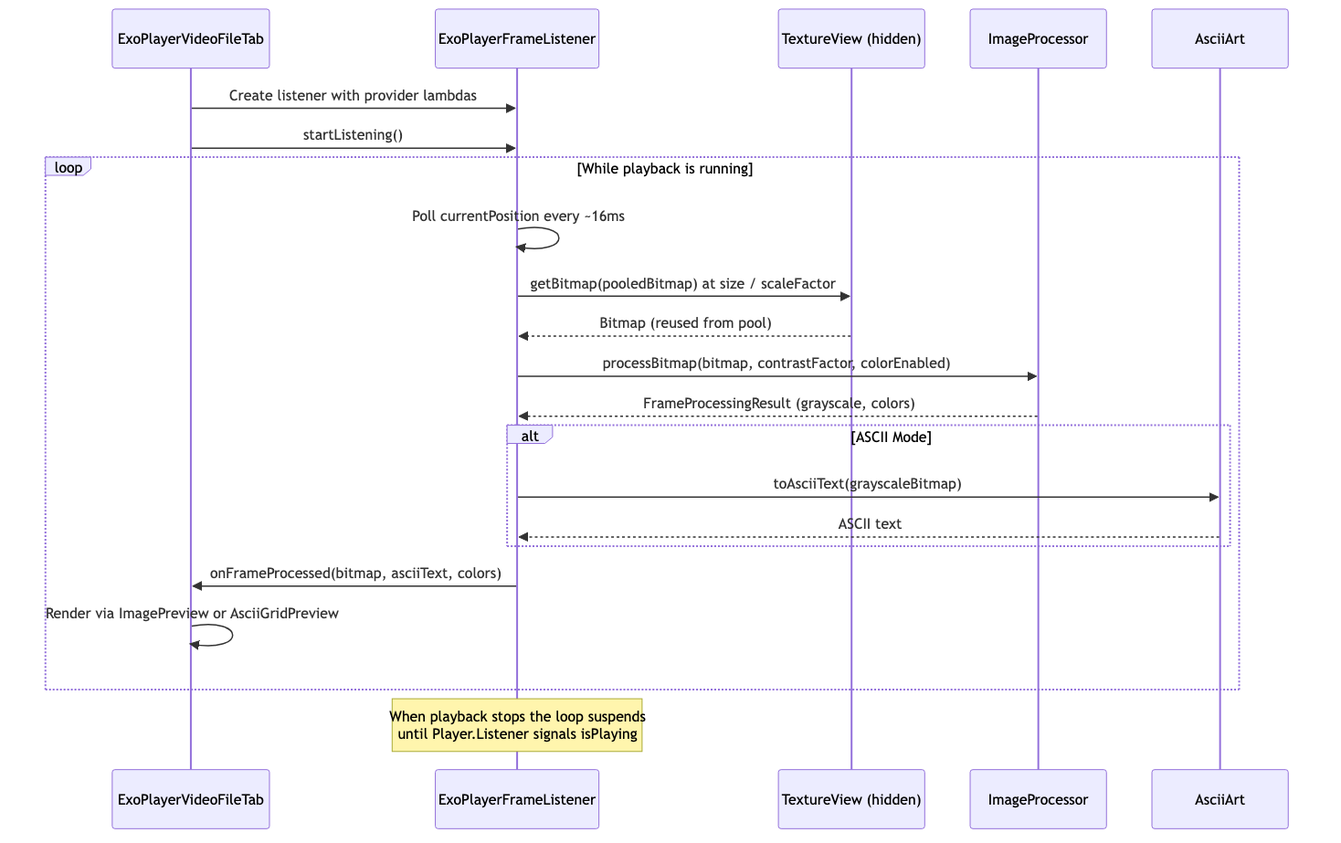
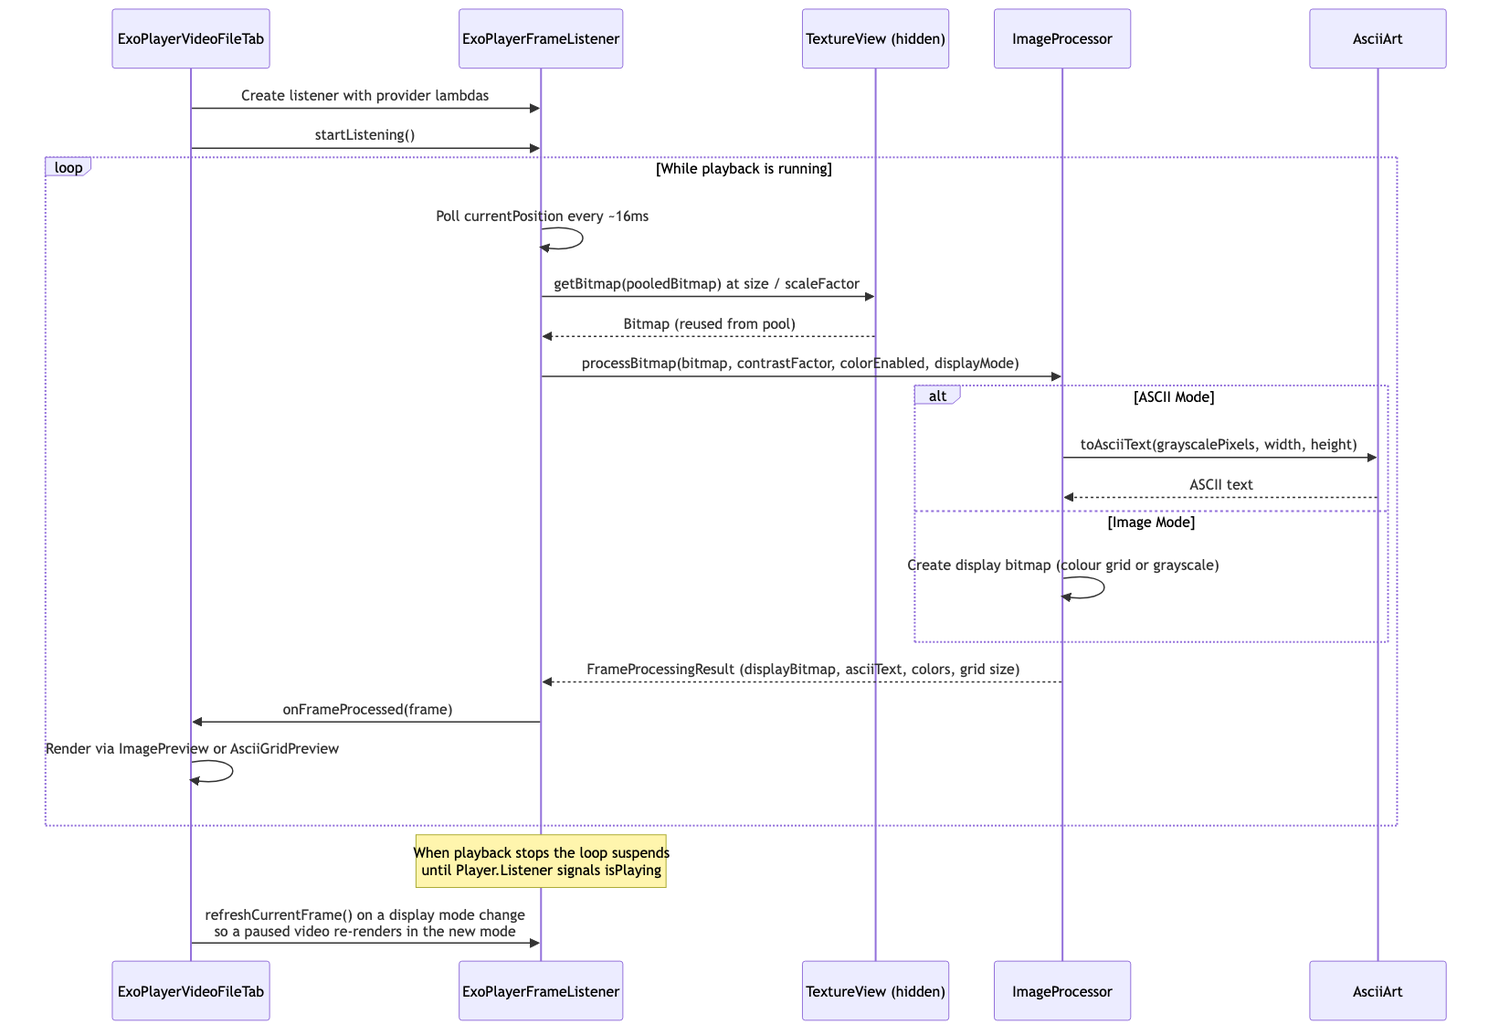
Mark items 9 and 15 fixed and refresh the diagrams
Both entries move to the fixed list with what actually landed, including
where the outcome beat the estimate: Colour + Image ended up with no colour
array either, since the grid no longer escapes to Compose there.

The mode-coupling the fix introduces is recorded alongside it, as is the
paused-video refresh that pays for it. Item 14's open bullet about the video
pipeline ignoring contrast for colour output is now confirmed rather than
suspected — checked on a loaded video at 100% and 194% — and item 15 only
made it more visible, since that mode no longer runs the arithmetic at all.

The new coverage gap goes on the test list: which fields a frame carries now
depends on the Display x Colour combination and nothing asserts that table.

Diagrams and the README class table follow the new signatures; PNGs
regenerated.

diff --git a/docs/code-review-2026-08-04.md b/docs/code-review-2026-08-04.md
@@ -3,14 +3,14 @@
 Full read of the ~1,800 lines of Kotlin under `app/src/main`, plus the Gradle config,
 manifest and tests.
 
-**11 of the 12 numbered items are fixed.** Inefficiencies 9 and 15 remain, along with
-3 entries on the simplification list. No defects are open.
+**All 12 numbered items are fixed**, and so are the four that arrived later. What remains
+is 3 entries on the simplification list and the test coverage gaps. No defects are open.
 
-Four findings arrived after the original review and sit outside its numbering: the
-inverted ASCII glyph density, found while writing tests for item 6; item 13, the cost of
-`toAsciiText`'s per-pixel mapping, found while measuring item 9; item 14, contrast not
-reaching colour output, found by tracing what the grayscale bitmap is used for; and item 15,
-split out of 14. Items 13 and 14 and the density bug are fixed; 15 is open.
+The four later findings sit outside the original numbering: the inverted ASCII glyph
+density, found while writing tests for item 6; item 13, the cost of `toAsciiText`'s
+per-pixel mapping, found while measuring item 9; item 14, contrast not reaching colour
+output, found by tracing what the grayscale bitmap is used for; and item 15, split out
+of 14.
 
 Numbering is otherwise preserved from the original review so items stay traceable across
 the fixes, which is why the fixed list below is not in numeric order.
@@ -43,6 +43,7 @@ The README documented the mechanism that *causes* the bug (`255 - intensity`) al
 the outcome that mechanism prevents; corrected in the same commit.
 
 ### 1. Image mode rendered a photographic negative — `aa5e9ee`
+
 
 The same commit inverted **both** branches of `ImagePreview` — a `-1x + 255` `ColorMatrix`
 on the grayscale `Image`, and `invertArgb()` on every cell of the colour grid — so Image
@@ -156,8 +157,8 @@ The capture pool is untouched and still recycled in `release()`. Those bitmaps h
 one owner at a time and are never handed to Compose, so ending their lifetime is ours to do.
 
 The cost is one ~130 KB bitmap per frame reaching the collector slightly later than before.
-Item 15 would remove most of those allocations outright, which is the better answer than
-recycling something that is still being read.
+Item 15 has since removed most of those allocations outright, which is the better answer
+than recycling something that is still being read.
 
 ### 14. Contrast was not applied to colour output
 
@@ -184,13 +185,16 @@ with grayscale mode as a positive control:
 | Colour, before | 81.77 → 81.76 (0%) |
 | Colour, after | 17.08 → 116.50 (+582%) |
 
-Two things this fix does **not** address, both still open:
+Two things this fix does **not** address:
 
-- The video pipeline looks like it has the same gap. `processBitmap` copies the source
-  pixels into `colorPixels` verbatim while applying contrast only to the grayscale output.
-  Unverified — it needs a video file loaded — and the fix would differ, since that path has
-  RGB rather than YUV in hand.
-- In Colour + Image mode the grayscale bitmap is still built and discarded. Now item 15.
+- The video pipeline has the same gap, now confirmed. `processBitmap` copies the source
+  pixels into `colorPixels` verbatim while applying contrast only to the grayscale output,
+  so with Colour on the slider changes nothing — checked on a loaded video, at 100% and
+  194%, and unchanged by item 15, which only made the gap explicit: that mode no longer
+  runs the contrast arithmetic at all. The fix would differ from this one, since that path
+  has RGB rather than YUV in hand.
+- In Colour + Image mode the grayscale bitmap was still built and discarded. That became
+  item 15, now fixed.
 
 Note that fixing this *narrowed* item 15: before, the per-pixel contrast arithmetic was
 surplus in Colour + Image mode too, because nothing downstream consumed it. It now feeds
@@ -359,47 +363,78 @@ loaded-but-paused video, or the tab merely being open, now costs nothing.
 
 ---
 
-## ⬜ Open — inefficiencies
+### 9. `setPixels` → `getPixels` round trip
 
-### 15. The grayscale bitmap is built and discarded in Colour + Image mode
+`processBitmap` wrote `bitmapOutputPixels` into a fresh bitmap and `toAsciiText` immediately
+read that same data back out into a newly allocated `IntArray(width * height)`. The camera
+path did the same thing one call later.
 
-`ImageProcessor.kt:155-162` (camera), `ImageProcessor.kt:205-207` (video)
+`toAsciiText` now takes the pixels and the grid dimensions directly, so both copies and the
+per-frame allocation are gone. The conversion also moved inside `ImageProcessor`: the pixels
+it reads live in a buffer the next frame reuses, and calling it there is what keeps that
+buffer from crossing to the main thread. `CameraFrameAnalyzer` and `ExoPlayerFrameListener`
+each lost their `when (displayMode)` block as a result — the analyzer is now three
+statements.
 
-Split out of item 14, where it was noted in passing.
+This is also what makes item 15 possible: with nothing reading the bitmap's pixels, ASCII
+mode has no use for a bitmap at all.
 
-With Colour on and the display in Image mode, nothing reads the grayscale bitmap's pixels.
-`ImagePreview` builds its own bitmap from `asciiColors` and takes only `width` and `height`
-off the grayscale one — two integers, from a full-size image rebuilt every frame.
+### 15. The grayscale bitmap was built and discarded in Colour + Image mode
 
-Per frame at a 135x240 grid the surplus work is:
+Fixed along the lines the design exploration below described, with item 9 landing first as
+it required.
 
-- packing and storing 32,400 ARGB ints into the luma output buffer;
-- a `Bitmap.createBitmap` of ~130 KB, roughly 3.9 MB/s of allocation at 30fps;
-- a `setPixels` copy of those 32,400 ints, measured at ~0.03 ms.
+`FrameProcessingResult` now carries a nullable `displayBitmap`, the ASCII text, the colour
+grid and the grid dimensions. `ImageProcessor` picks the picture once — colour grid or
+grayscale — instead of the UI re-deriving it, so each combination builds only what it draws.
+The UI signatures followed: `ImagePreview(bitmap, modifier)` lost its
+`colorEnabled`/`asciiColors` branch, and `AsciiGridPreview(gridWidth, gridHeight, …)` lost a
+`Bitmap` parameter whose pixels it never read.
 
-Both pipelines have the shape — `processLumaFrame` for the camera, `processBitmap` for
-video.
+Full-size allocations per frame at a 135x240 grid, ~130 KB each:
 
-Two things are **not** part of this item:
+| Display | Colour | Before | After |
+| --- | --- | --- | --- |
+| Image | off | 1 bitmap | 1 bitmap (already optimal) |
+| Image | on | 2 bitmaps + 1 array | 1 bitmap |
+| ASCII | off | 1 bitmap + 1 array | none |
+| ASCII | on | 1 bitmap + 2 arrays | 1 array |
 
-- **The contrast arithmetic is still needed.** Since item 14, `contrastAdjustedGray` feeds
-  `yuvToArgb`, so it is required for the colour output in every mode. Only the grayscale
-  bitmap is surplus, not the arithmetic that would have filled it.
-- **Colour + ASCII mode is unaffected.** There `toAsciiText` reads the bitmap's pixels to
-  choose glyphs, so it is doing real work even though the bitmap is never displayed.
+Colour + Image beat the estimate: the colour grid no longer escapes to Compose there, so it
+comes from a reusable buffer on the camera path and directly from the input buffer on the
+video path. ASCII mode makes no pixel allocations at all — about 7.8 MB/s of GC pressure at
+30fps — plus the ~0.35 ms of `setPixels`/`getPixels` those lines cost. The ASCII `String`
+itself remains; that is a separate ~65 KB.
 
-#### What a fix would look like
+Two things beyond the bitmap:
 
-The bitmap is doing three unrelated jobs, which is why it looks wasteful — it is being used
-as a transport, not only as an image:
+- **The per-pixel work is skipped too, not just the allocation.** In Colour + Image nothing
+  reads the grayscale grid, so the camera path no longer packs and stores it and the video
+  path skips its conversion loop outright.
+- **A frame is now built for one Display x Colour combination**, so changing either needs a
+  new frame. The camera delivers one within ~33 ms. A paused video does not, so
+  `ExoPlayerFrameListener.refreshCurrentFrame()` re-captures what the TextureView still
+  holds and the video tab calls it when the mode or the colour toggle changes. That also
+  closes a pre-existing hole: switching a paused video from Image to ASCII used to show
+  nothing, because the retained frame had been processed with `asciiText` empty.
 
-1. **Carrying pixels** to `toAsciiText`, which immediately reads them back out with
-   `getPixels` — that is item 9.
-2. **Carrying grid dimensions** to the UI. `AsciiGridPreview` reads `.width`/`.height`
-   thirteen times and reads pixels zero times.
+Verified on an API 35 emulator across all eight combinations of tab, display mode and colour,
+plus mode and colour switches on a paused video. The 9 instrumented tests pass, moved to the
+new `toAsciiText` signature — and simplified by it, since three of the helpers no longer need
+a `Bitmap` at all.
+
+#### The design exploration this came from
+
+The bitmap was doing three unrelated jobs, which is why it looked wasteful — it was being
+used as a transport, not only as an image:
+
+1. **Carrying pixels** to `toAsciiText`, which immediately read them back out with
+   `getPixels` — that was item 9.
+2. **Carrying grid dimensions** to the UI. `AsciiGridPreview` read `.width`/`.height`
+   thirteen times and read pixels zero times.
 3. **Being the thing drawn** — Image mode with Colour off.
 
-Only job 3 needs a `Bitmap`. Remove jobs 1 and 2 and it is needed in exactly one of four
+Only job 3 needs a `Bitmap`. Removing jobs 1 and 2 leaves it needed in exactly one of four
 combinations, and in that one it is not waste at all:
 
 | Display | Colour | Bitmap needed | Why |
@@ -409,66 +444,24 @@ combinations, and in that one it is not waste at all:
 | ASCII | off | no | glyphs come from the pixel array; the UI needs only dimensions |
 | ASCII | on | no | same |
 
-Full-size allocations per frame at a 135x240 grid, ~130 KB each:
+Two things were **not** part of the item:
 
-| Display | Colour | Now | With the fix |
-| --- | --- | --- | --- |
-| Image | off | 1 bitmap | 1 bitmap (already optimal) |
-| Image | on | 2 bitmaps + 1 array | 1 bitmap + 1 array |
-| ASCII | off | 1 bitmap + 1 array | none |
-| ASCII | on | 1 bitmap + 2 arrays | 1 array |
-
-ASCII mode goes from ~260 KB per frame to no pixel allocations at all — about 7.8 MB/s of
-GC pressure at 30fps — plus the ~0.35 ms of `setPixels` and `getPixels` those lines cost.
-The ASCII `String` itself remains; that is a separate ~65 KB.
-
-The shape that gets there:
-
-```kotlin
-data class FrameProcessingResult(
-    val displayBitmap: Bitmap?,   // null unless Image mode
-    val asciiColors: IntArray?,
-    val gridWidth: Int,
-    val gridHeight: Int,
-)
-```
-
-`ImageProcessor` picks the source once — grayscale or colour — rather than the UI
-re-deriving it, which makes this a simplification as well as an efficiency:
-`ImagePreview(bitmap, modifier)` loses its `colorEnabled`/`asciiColors` branch entirely, and
-`AsciiGridPreview(gridWidth, gridHeight, …)` loses a `Bitmap` parameter whose pixels it never
-read, so its signature stops implying otherwise.
-
-It does not work as a single change. The dependencies run in order:
-
-1. **Item 3** — mandatory, since the fix makes the returned bitmap definitively the drawn
-   one. Now done.
-2. **Item 9** — `toAsciiText` takes pixels and dimensions. This is what frees ASCII mode from
-   needing a bitmap at all, and is where most of the benefit above comes from.
-3. **Item 15** — nullable display bitmap, explicit dimensions, UI signatures follow.
-
-Roughly six files, and the instrumented tests move to the new `toAsciiText` signature. The
-cheap alternative — skip the bitmap only in Colour + Image and leave everything else — is
-worth perhaps a fifth of the above, because it misses ASCII mode entirely.
-
-### 9. `setPixels` → `getPixels` round trip
-
-`ImageProcessor.kt:206` → `AsciiArt.kt:60-61`
-
-On the video path, `processBitmap` writes `bitmapOutputPixels` into a fresh bitmap, then
-`toAsciiText` immediately reads that same data back out into a newly allocated
-`IntArray(width*height)`. Passing the int array (or a grayscale `ByteArray`) directly to
-the ASCII mapper skips two copies and a per-frame allocation.
+- **The contrast arithmetic is still needed.** Since item 14, `contrastAdjustedGray` feeds
+  `yuvToArgb`, so it is required for the colour output in every mode. Only the grayscale
+  bitmap was surplus, not the arithmetic that would have filled it.
+- **Colour + ASCII mode was unaffected.** There `toAsciiText` reads the grayscale values to
+  choose glyphs, so that work was real even though the bitmap was never displayed.
 
 ---
 
 ## ⬜ Open — dead code and simplification
 
-- **`VideoFilePlayer.kt:63, 72-79, 108-135`** — `exoPlayer` as `mutableStateOf` set from inside
+- **`VideoFilePlayer.kt:63, 75-77, 106-129`** — `exoPlayer` as `mutableStateOf` set from inside
   `DisposableEffect` forces an extra recomposition round-trip that every downstream effect then
   has to null-guard; `remember { ExoPlayer.Builder(context).build() }` removes the nullability
-  and the guards. The three `rememberUpdatedState` setter wrappers are also unnecessary — a
-  lambda capturing a `MutableState` delegate stays valid across recomposition.
+  and the guards. The remaining `rememberUpdatedState` setter wrapper is also unnecessary — a
+  lambda capturing a `MutableState` delegate stays valid across recomposition. Item 15 folded
+  the other two into it, so this is one wrapper now rather than three.
 - **`READ_EXTERNAL_STORAGE` in the manifest** — the app uses SAF (`OpenDocument` +
   `takePersistableUriPermission`), which grants per-URI access. The permission is never requested
   at runtime and grants nothing on API 24+.
@@ -494,6 +487,9 @@ arithmetic put it under JVM unit test (`RotationMapTest`, 5 tests). Still uncove
   original `268b241` regression.
 - **`ImageProcessor.processLumaFrame` / `processBitmap`** — the loops themselves are untested;
   only the rotation mapping they now use is. Both need an `ImageProxy` or a real `Bitmap`.
+  Item 15 raised the stakes here: which of `displayBitmap`, `asciiText` and `asciiColors` a
+  frame carries now depends on the Display x Colour combination, and nothing asserts that
+  table. It was checked by hand across all eight tab/mode/colour combinations instead.
 - **`AsciiGridPreview`** — the draw loops are untested; item 7 pinned the contract they rely
   on, not the drawing.
 - **`ExampleUnitTest` / `ExampleInstrumentedTest`** — untouched template boilerplate.

diff --git a/README.md b/README.md
@@ -101,19 +101,18 @@ sequenceDiagram
     participant UI as AsciiPreviewScreen
 
     Camera->>CFA: ImageProxy (YUV)
-    CFA->>IP: processLumaFrame(rotationDegrees)
+    CFA->>IP: processLumaFrame(displayMode, rotationDegrees)
     IP->>IP: Read Y plane, downsample
     IP->>IP: Apply contrast adjustment
     IP->>IP: Write each cell to its rotated index
-    IP->>IP: Create grayscale ARGB bitmap
-    IP-->>CFA: FrameProcessingResult (bitmap, null)
     alt ASCII Mode
-        CFA->>AA: toAsciiText(bitmap)
-        AA-->>CFA: ASCII text
+        IP->>AA: toAsciiText(lumaPixels, gridWidth, gridHeight)
+        AA-->>IP: ASCII text
     else Image Mode
-        CFA->>CFA: Skip ASCII conversion
+        IP->>IP: Create grayscale ARGB display bitmap
     end
-    CFA->>UI: onFrameProcessed(bitmap, asciiText, null)
+    IP-->>CFA: FrameProcessingResult (displayBitmap, asciiText, null, grid size)
+    CFA->>UI: onFrameProcessed(frame)
     UI->>UI: Render via ImagePreview or AsciiGridPreview
 ```
 
@@ -127,22 +126,21 @@ sequenceDiagram
     participant UI as AsciiPreviewScreen
 
     Camera->>CFA: ImageProxy (YUV)
-    CFA->>IP: processLumaFrame(colorEnabled=true, rotationDegrees)
+    CFA->>IP: processLumaFrame(colorEnabled=true, displayMode, rotationDegrees)
     IP->>IP: Read Y plane, downsample
     IP->>IP: Apply contrast adjustment
     IP->>IP: Sample U,V planes, convert YUV to ARGB per cell
-    IP->>IP: Write luma and colour to their rotated indices
-    IP->>IP: Create grayscale ARGB bitmap
-    IP-->>CFA: FrameProcessingResult (bitmap, colorGrid)
+    IP->>IP: Write colour to its rotated index (luma too, in ASCII mode)
     alt ASCII Mode
-        CFA->>AA: toAsciiText(bitmap)
-        AA-->>CFA: ASCII text
+        IP->>AA: toAsciiText(lumaPixels, gridWidth, gridHeight)
+        AA-->>IP: ASCII text
     else Image Mode
-        CFA->>CFA: Skip ASCII conversion
+        IP->>IP: Create display bitmap from the colour grid
     end
-    CFA->>UI: onFrameProcessed(bitmap, asciiText, colorGrid)
+    IP-->>CFA: FrameProcessingResult (displayBitmap, asciiText, colorGrid, grid size)
+    CFA->>UI: onFrameProcessed(frame)
     alt Image Mode
-        UI->>UI: ImagePreview builds one bitmap from colorGrid
+        UI->>UI: ImagePreview draws the colour bitmap
     else ASCII Mode
         UI->>UI: AsciiGridPreview tints each glyph from colorGrid
     end
@@ -163,16 +161,19 @@ sequenceDiagram
         EFL->>EFL: Poll currentPosition every ~16ms
         EFL->>TV: getBitmap(pooledBitmap) at size / scaleFactor
         TV-->>EFL: Bitmap (reused from pool)
-        EFL->>IP: processBitmap(bitmap, contrastFactor, colorEnabled)
-        IP-->>EFL: FrameProcessingResult (grayscale, colors)
+        EFL->>IP: processBitmap(bitmap, contrastFactor, colorEnabled, displayMode)
         alt ASCII Mode
-            EFL->>AA: toAsciiText(grayscaleBitmap)
-            AA-->>EFL: ASCII text
+            IP->>AA: toAsciiText(grayscalePixels, width, height)
+            AA-->>IP: ASCII text
+        else Image Mode
+            IP->>IP: Create display bitmap (colour grid or grayscale)
         end
-        EFL->>UI: onFrameProcessed(bitmap, asciiText, colors)
+        IP-->>EFL: FrameProcessingResult (displayBitmap, asciiText, colors, grid size)
+        EFL->>UI: onFrameProcessed(frame)
         UI->>UI: Render via ImagePreview or AsciiGridPreview
     end
     Note over EFL: When playback stops the loop suspends<br/>until Player.Listener signals isPlaying
+    UI->>EFL: refreshCurrentFrame() on a display mode change<br/>so a paused video re-renders in the new mode
 ```
 
 ### Shared Parameter Update Flow
@@ -231,6 +232,7 @@ classDiagram
         startListening()
         stopListening()
         release()
+        refreshCurrentFrame()
         -pollForFrames()
         -captureFrameToQueue()
         -processQueuedFrames()
@@ -257,12 +259,15 @@ classDiagram
     }
 
     class FrameProcessingResult {
-        grayscaleBitmap: Bitmap
-        asciiColors: IntArray
+        displayBitmap: Bitmap?
+        asciiText: String
+        asciiColors: IntArray?
+        gridWidth: Int
+        gridHeight: Int
     }
 
     class AsciiArt {
-        +toAsciiText(grayscaleBitmap)$
+        +toAsciiText(grayscalePixels, width, height)$
         -glyphForIntensity: CharArray
         -buildSortedCharset()$
     }
@@ -279,13 +284,12 @@ classDiagram
     AsciiPreviewScreen --> AsciiDisplayMode
     CameraAnalysisPipeline --> CameraFrameAnalyzer
     CameraFrameAnalyzer --> ImageProcessor
-    CameraFrameAnalyzer --> AsciiArt
     ExoPlayerVideoFileTab --> ExoPlayerFrameListener
     ExoPlayerFrameListener --> FrameQueueState
     ExoPlayerFrameListener --> ImageProcessor
-    ExoPlayerFrameListener --> AsciiArt
     ImageProcessor --> RotationMap
     ImageProcessor --> FrameProcessingResult
+    ImageProcessor --> AsciiArt
 ```
 
 | Class | Description |
@@ -293,12 +297,12 @@ classDiagram
 | `MainActivity` | The app's single Android `Activity`. Configures edge-to-edge / transparent system bar styling and hosts the root Compose content via `setContent`. |
 | `AsciiPreviewScreen` | Root composable screen. Owns all shared UI state — scale factor, contrast, colour toggle, display mode and selected tab — and renders the control panel plus the tab selector. |
 | `CameraAnalysisPipeline` | Private composable that wires up CameraX `ImageAnalysis`, binds it to the `LifecycleOwner`, and forwards each raw camera frame to a `CameraFrameAnalyzer` instance. |
-| `CameraFrameAnalyzer` | Implements `ImageAnalysis.Analyzer`. Receives raw YUV `ImageProxy` frames from CameraX, passes the sensor rotation through to `ImageProcessor` (which applies it while downsampling), optionally generates ASCII text, and posts results to the UI thread. |
-| `ImageProcessor` | Singleton. Downsamples luma data from a YUV `ImageProxy` or an existing `Bitmap`, applies contrast adjustment, and produces a grayscale `Bitmap` plus an optional per-cell ARGB colour array. Applies rotation inside the downsample loop via `RotationMap`. Keeps pre-allocated `IntArray` buffers for the data it consumes internally; the colour array is allocated per frame because it escapes to Compose state. |
+| `CameraFrameAnalyzer` | Implements `ImageAnalysis.Analyzer`. Receives raw YUV `ImageProxy` frames from CameraX, passes the sensor rotation and the current display mode through to `ImageProcessor` (which applies the rotation while downsampling), and posts the finished `FrameProcessingResult` to the UI thread. |
+| `ImageProcessor` | Singleton. Downsamples luma data from a YUV `ImageProxy` or an existing `Bitmap`, applies contrast adjustment, and produces exactly what the current display mode draws — see `FrameProcessingResult`. Applies rotation inside the downsample loop via `RotationMap`. Keeps pre-allocated `IntArray` buffers for the data it consumes internally; arrays that escape to Compose state are allocated per frame. |
 | `RotationMap` | A right-angle rotation expressed as an affine index map — `dstIndex = base + stepX * x + stepY * y` — so the downsample loop can write each cell directly to its rotated position. Pure arithmetic with no Android dependency, which is what makes it unit-testable. |
-| `FrameProcessingResult` | Immutable data class that carries the output of a single `ImageProcessor` call: a downsampled grayscale `Bitmap` and an optional `IntArray` of per-cell ARGB colours. |
-| `AsciiArt` | Singleton. Converts a grayscale bitmap to a multi-line ASCII `String` by mapping each pixel's intensity to a character from a density-sorted printable ASCII set — brighter cells map to denser glyphs. The mapping is precomputed into a `CharArray(256)` on first use, so the per-pixel cost is one array read. |
+| `FrameProcessingResult` | Immutable data class that carries the output of a single `ImageProcessor` call: the de-res grid dimensions, the ASCII text for ASCII mode, an optional `IntArray` of per-cell ARGB colours, and the `Bitmap` Image mode draws — null in ASCII mode, which draws no image. Building only what the mode shows is what keeps a full-size bitmap from being allocated and filled on every frame regardless of whether anything reads it. |
+| `AsciiArt` | Singleton. Converts a grid of grayscale pixels to a multi-line ASCII `String` by mapping each pixel's intensity to a character from a density-sorted printable ASCII set — brighter cells map to denser glyphs. The mapping is precomputed into a `CharArray(256)` on first use, so the per-pixel cost is one array read. |
 | `AsciiDisplayMode` | Enum with two values — `IMAGE` (render de-res bitmap cells) and `ASCII` (render character glyphs) — shared across both tabs. |
 | `ExoPlayerVideoFileTab` | Composable for the Video File tab. Creates and manages the `ExoPlayer` instance and its lifecycle. Provides a persistent control bar (Load, Restart, Play, Pause) visible in both modes. Delegates frame capture to `ExoPlayerFrameListener` and renders the output through `ImagePreview` or `AsciiGridPreview`. |
-| `ExoPlayerFrameListener` | Bridges ExoPlayer playback and the de-res pipeline. Polls the player position at ~60 Hz on the main thread while playback runs, captures rendered frames via `TextureView.getBitmap()` into a `Channel<Bitmap>`, and processes them on an IO thread via `ImageProcessor` and `AsciiArt`. Suspends its poll loop when playback stops. |
+| `ExoPlayerFrameListener` | Bridges ExoPlayer playback and the de-res pipeline. Polls the player position at ~60 Hz on the main thread while playback runs, captures rendered frames via `TextureView.getBitmap()` into a `Channel<Bitmap>`, and processes them on an IO thread via `ImageProcessor`. Suspends its poll loop when playback stops, and re-captures the displayed frame on demand so a paused video still follows a display mode change. |
 | `FrameQueueState` | Frame-timing state for the video pipeline, kept separate from the coroutine plumbing so it can be unit-tested: enforces a minimum gap between captures, applies the frame-skip rate, and detects backward seeks or loops. |
